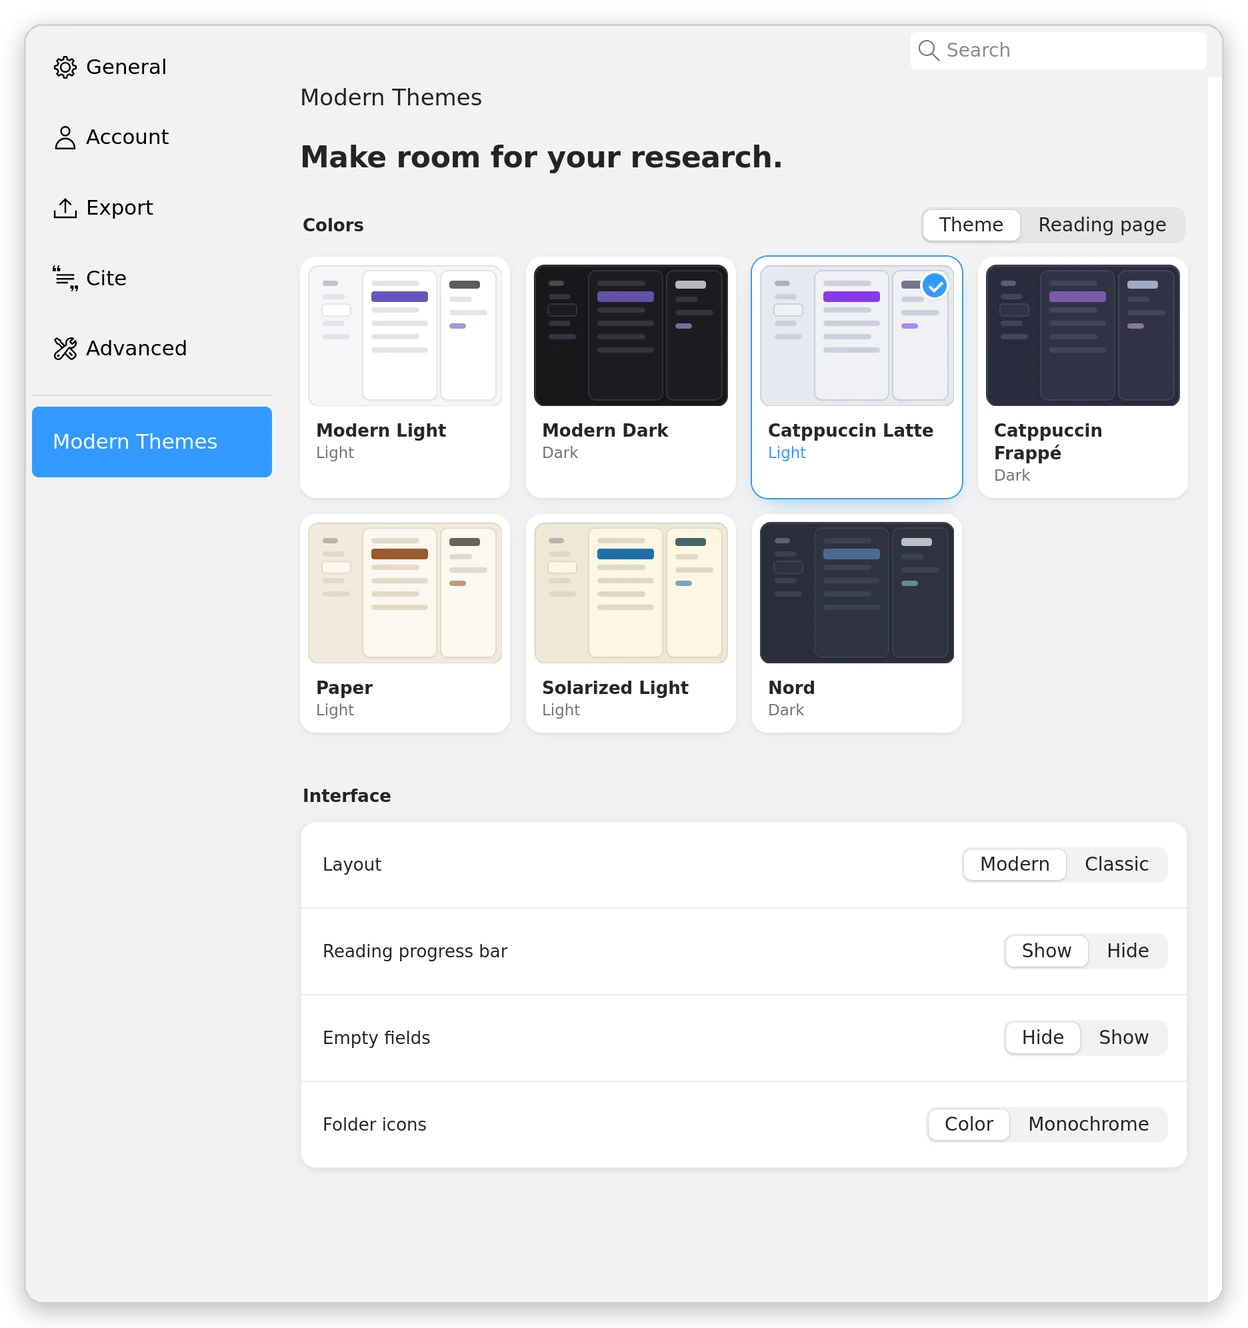
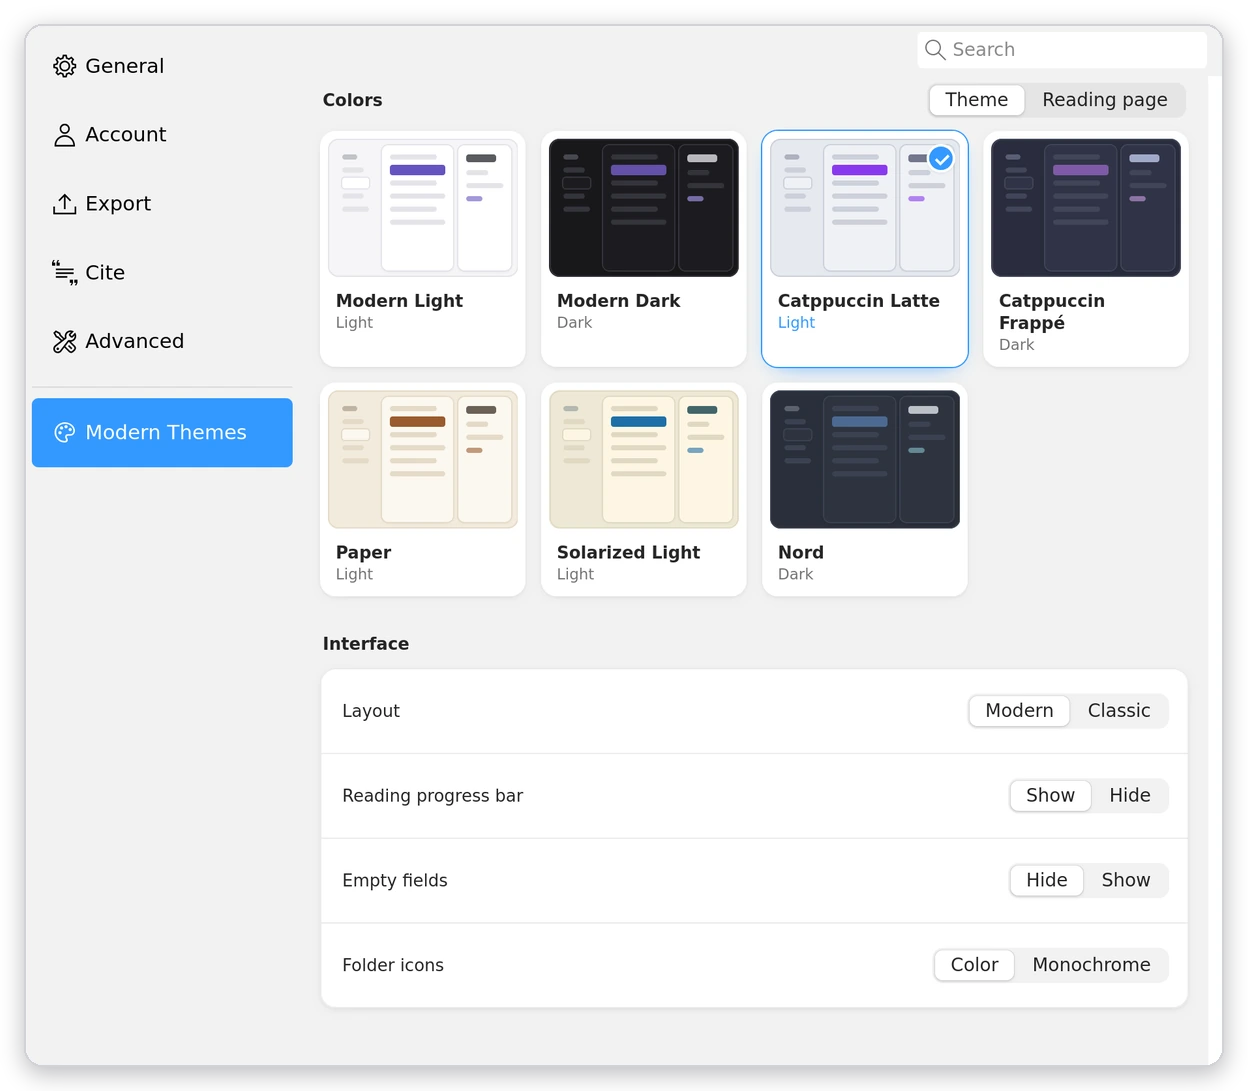
Remove the title lines at the top of the settings pane
Zotero puts each plugin pane's name above it as an h1, and the pane
added its own "Make room for your research." heading below that; both
repeat what the sidebar already says. The pane now hides Zotero's
heading when it initializes (it is inserted before the onload handler
runs) and no longer has its own, so it opens directly on Colors.

The settings screenshots in both READMEs are regenerated.

diff --git a/plugin/preferences.js b/plugin/preferences.js
@@ -3,11 +3,12 @@ window.MZTPreferences = {
     const root = document.getElementById("mzt-preferences");
     if (!root || root.dataset.ready) return;
     root.dataset.ready = "true";
+    // Zotero puts the pane's name above it as a heading; the sidebar already shows it.
+    if (root.previousElementSibling?.localName === "h1") root.previousElementSibling.hidden = true;
     const api = Zotero.ModernZoteroThemes;
     if (!api) return;
     const zh = (Zotero.locale || navigator.language).startsWith("zh");
     const copy = zh ? {
-      heading: "让阅读更专注。",
       colors: "颜色", themes: "主题", interface: "界面",
       page: "阅读页面", pageFollow: "跟随主题", pageOriginal: "原始", pageOriginalMeta: "PDF 原本的颜色",
       pageZotero: "Zotero 设置", pageZoteroMeta: "阅读器 Aa 菜单",

diff --git a/plugin/styles/preferences.css b/plugin/styles/preferences.css
@@ -35,10 +35,6 @@
   outline-offset: 2px;
 }
 
-/* Header */
-#mzt-preferences .mzt-hero { margin: 8px 0 24px; }
-#mzt-preferences h2 { margin: 0; font-size: 22px; font-weight: 650; letter-spacing: -0.01em; line-height: 1.25; }
-
 /* Sections */
 #mzt-preferences .mzt-section { margin-bottom: 28px; }
 #mzt-preferences .mzt-section-head {
